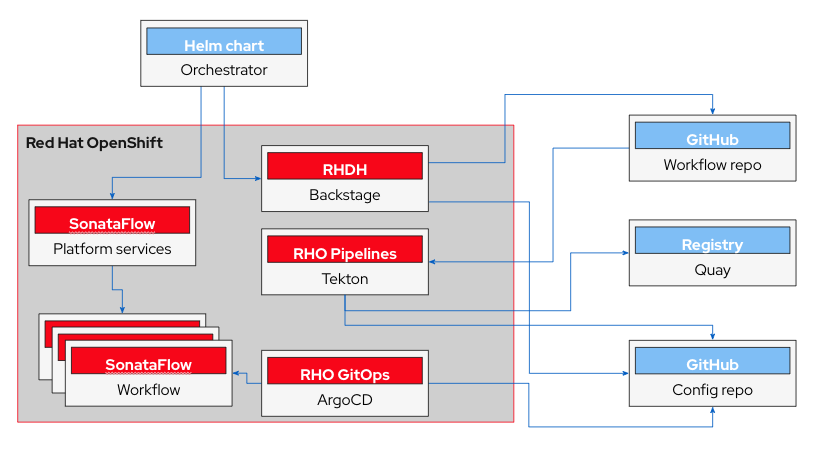
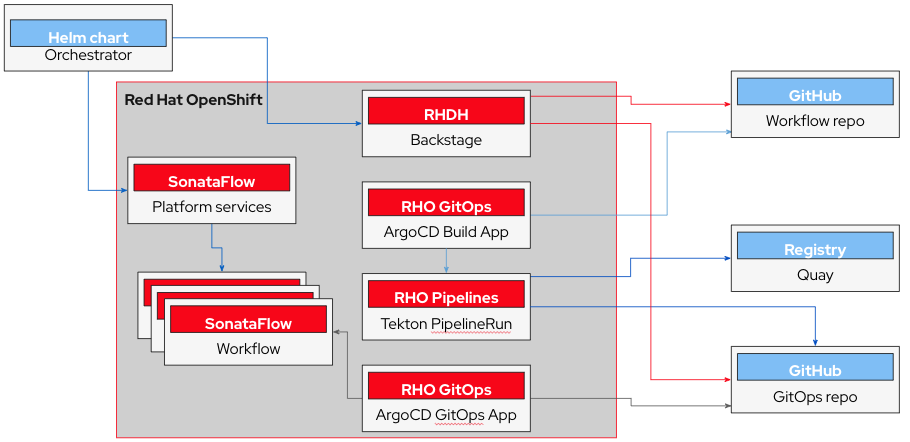
Updated to reflect pull-model architecture

diff --git a/content/blog/developer-experience.md b/content/blog/developer-experience.md
@@ -19,7 +19,8 @@ The reference architecture that we're going to describe consists of the followin
 * `SonataFlow platform`: the SonataFlow implementation of the Serverless Workflow specifications, including a Kubernetes operator and the platform services (data index, jobs service).
 * `SonataFlow`: the custom resource representing the workflow.
 * `GitHub workflow repo`: the source code repository of the workflow.
-* `GitHub config repo`: the repository of the `kustomize` deployment configuration.
+* `GitHub gitops repo`: the repository of the `kustomize` deployment configuration.
+  * Includes the commands to boostrap the ArgoCD applications on your selected environment.
 
 ![feature branches git workflow](/blog/images/cicd-architecture.png)
  
@@ -45,7 +46,7 @@ The Orchestrator plugin comes with its own templates designed to kickstart your 
 
 * A fully operational software project to develop your serverless workflow, in a newly generated Git repository under the organization of your choice.
 * A ready-to-use configuration repository with a [kustomize](https://kustomize.io/) configuration to deploy the workflow on the designated RHDH instance.
-* (*) Automated CI tool deployment to trigger workflow builds on the selected cluster.
+* (*) Automated CI tool deployment to build workflows on the selected cluster.
 * (*) Automated CD automation deployment to deploy applications implementing your workflow.
 
 (*): optional but highly recommended!
